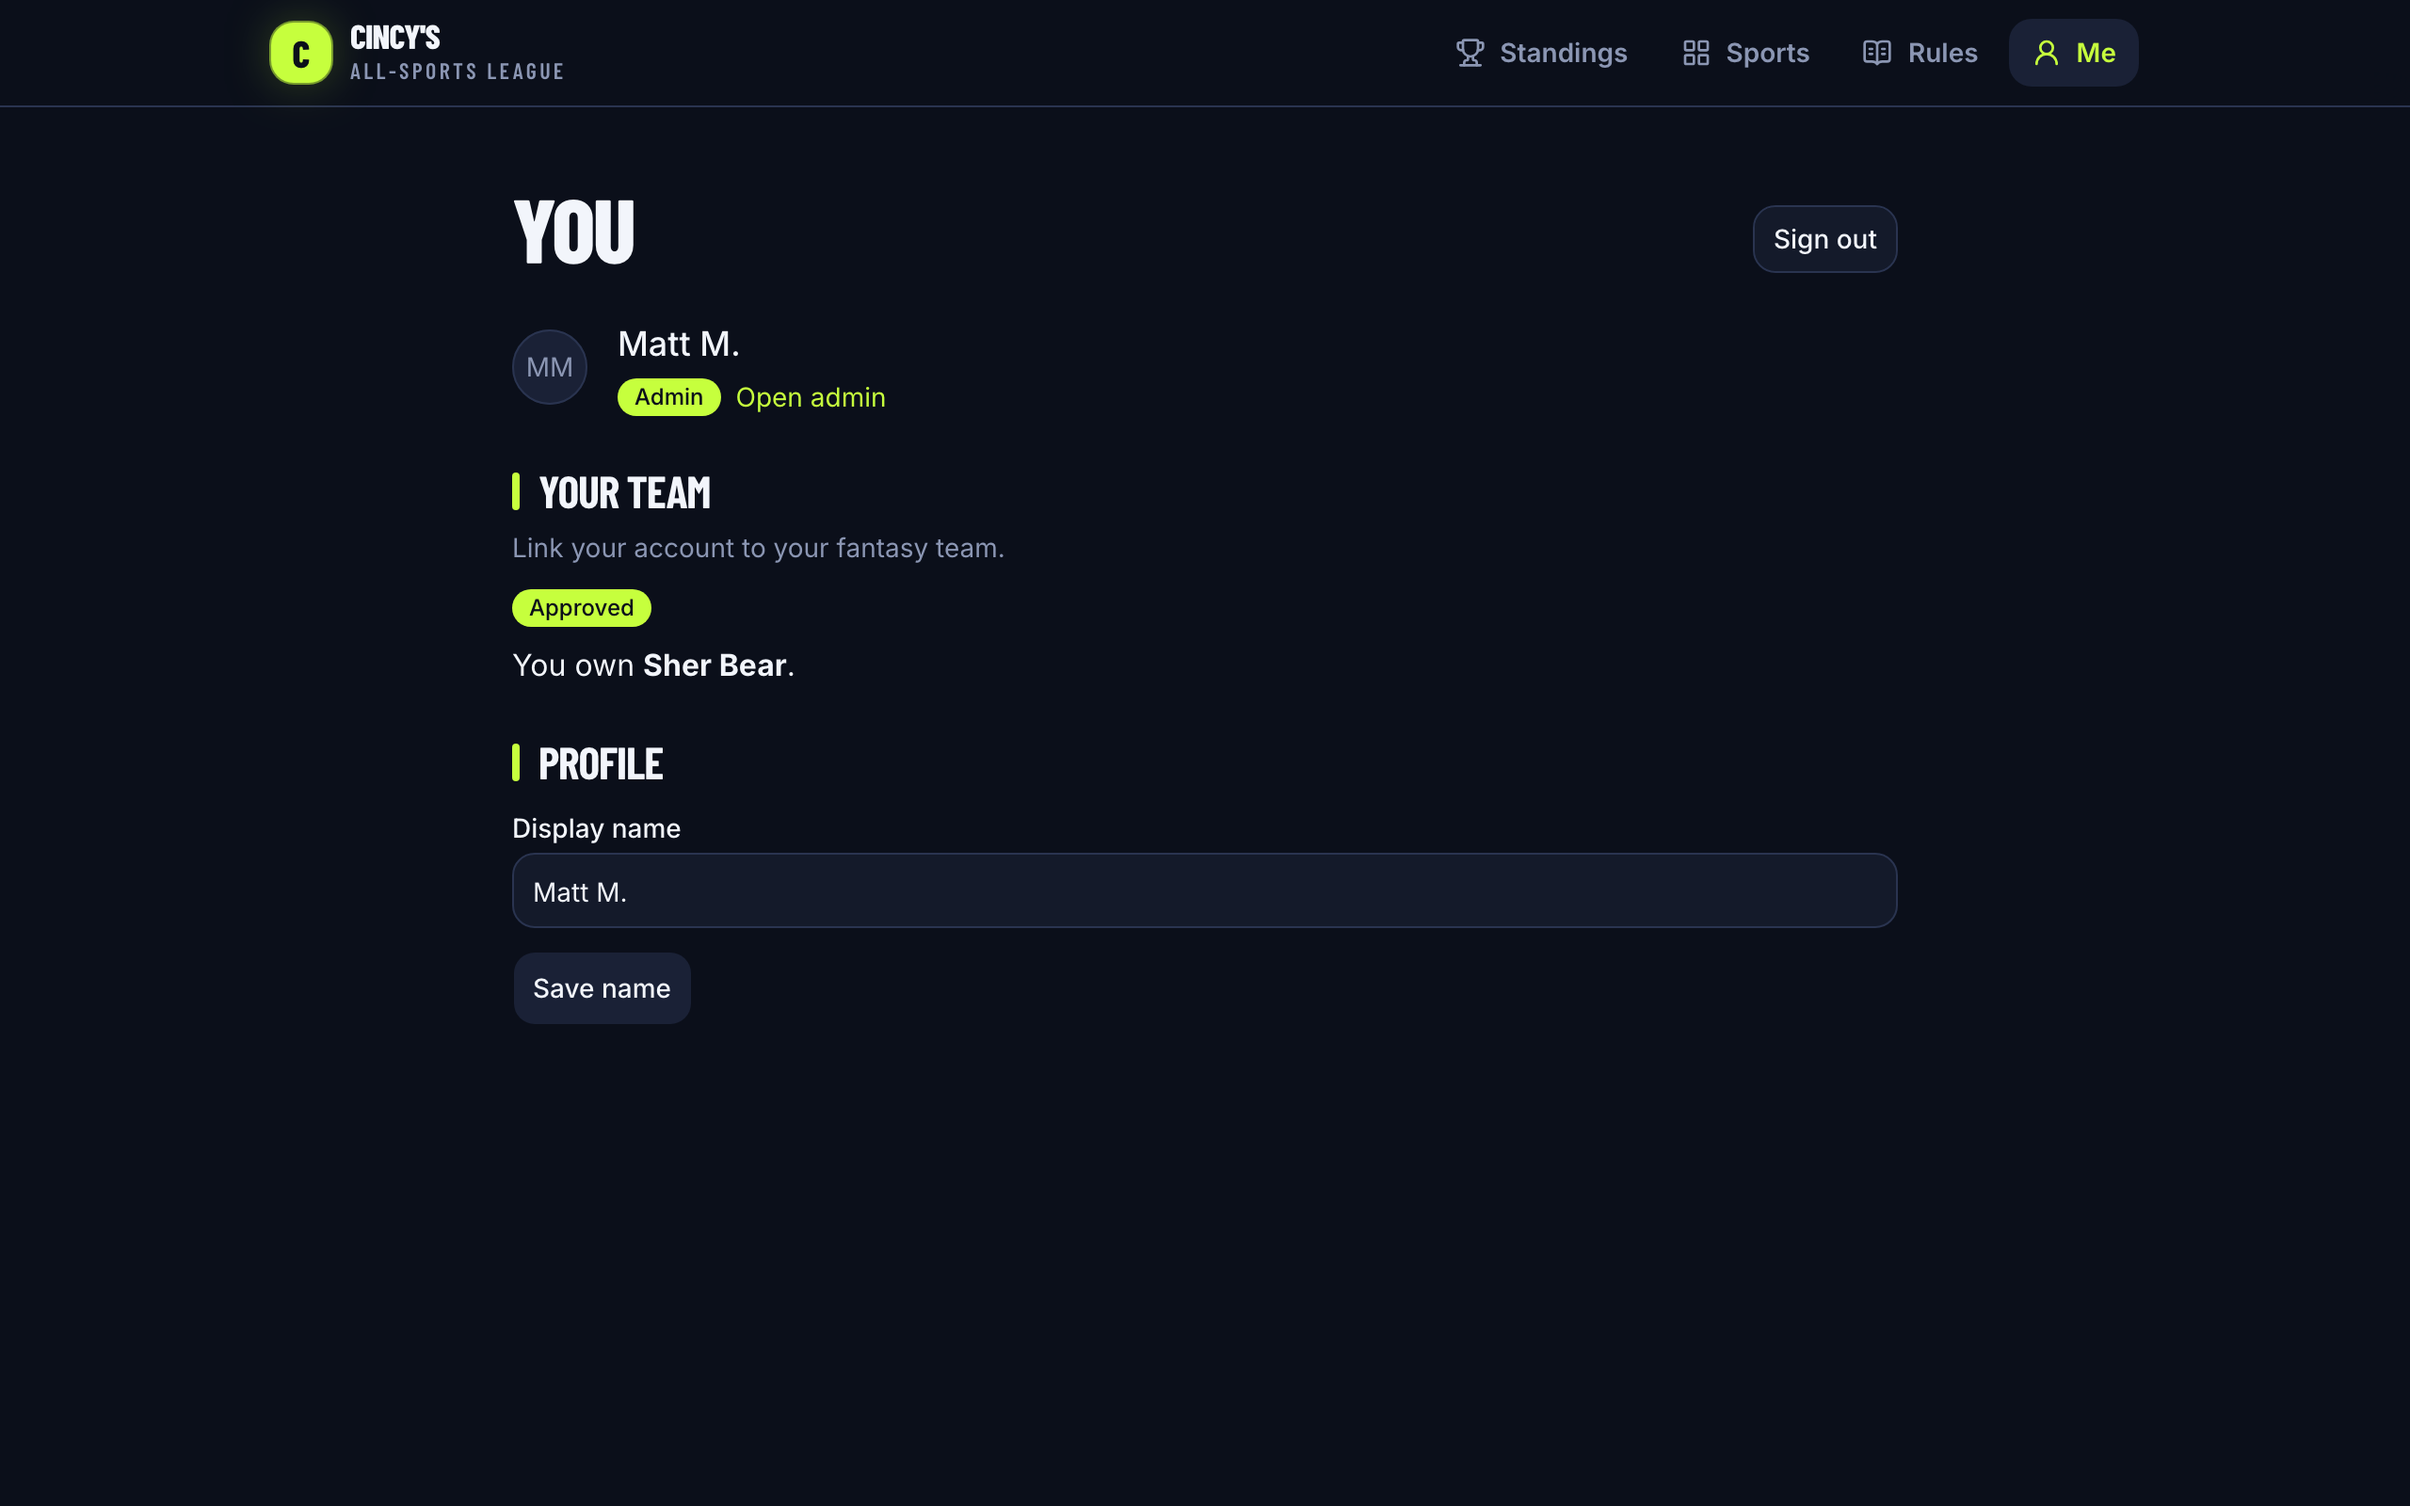
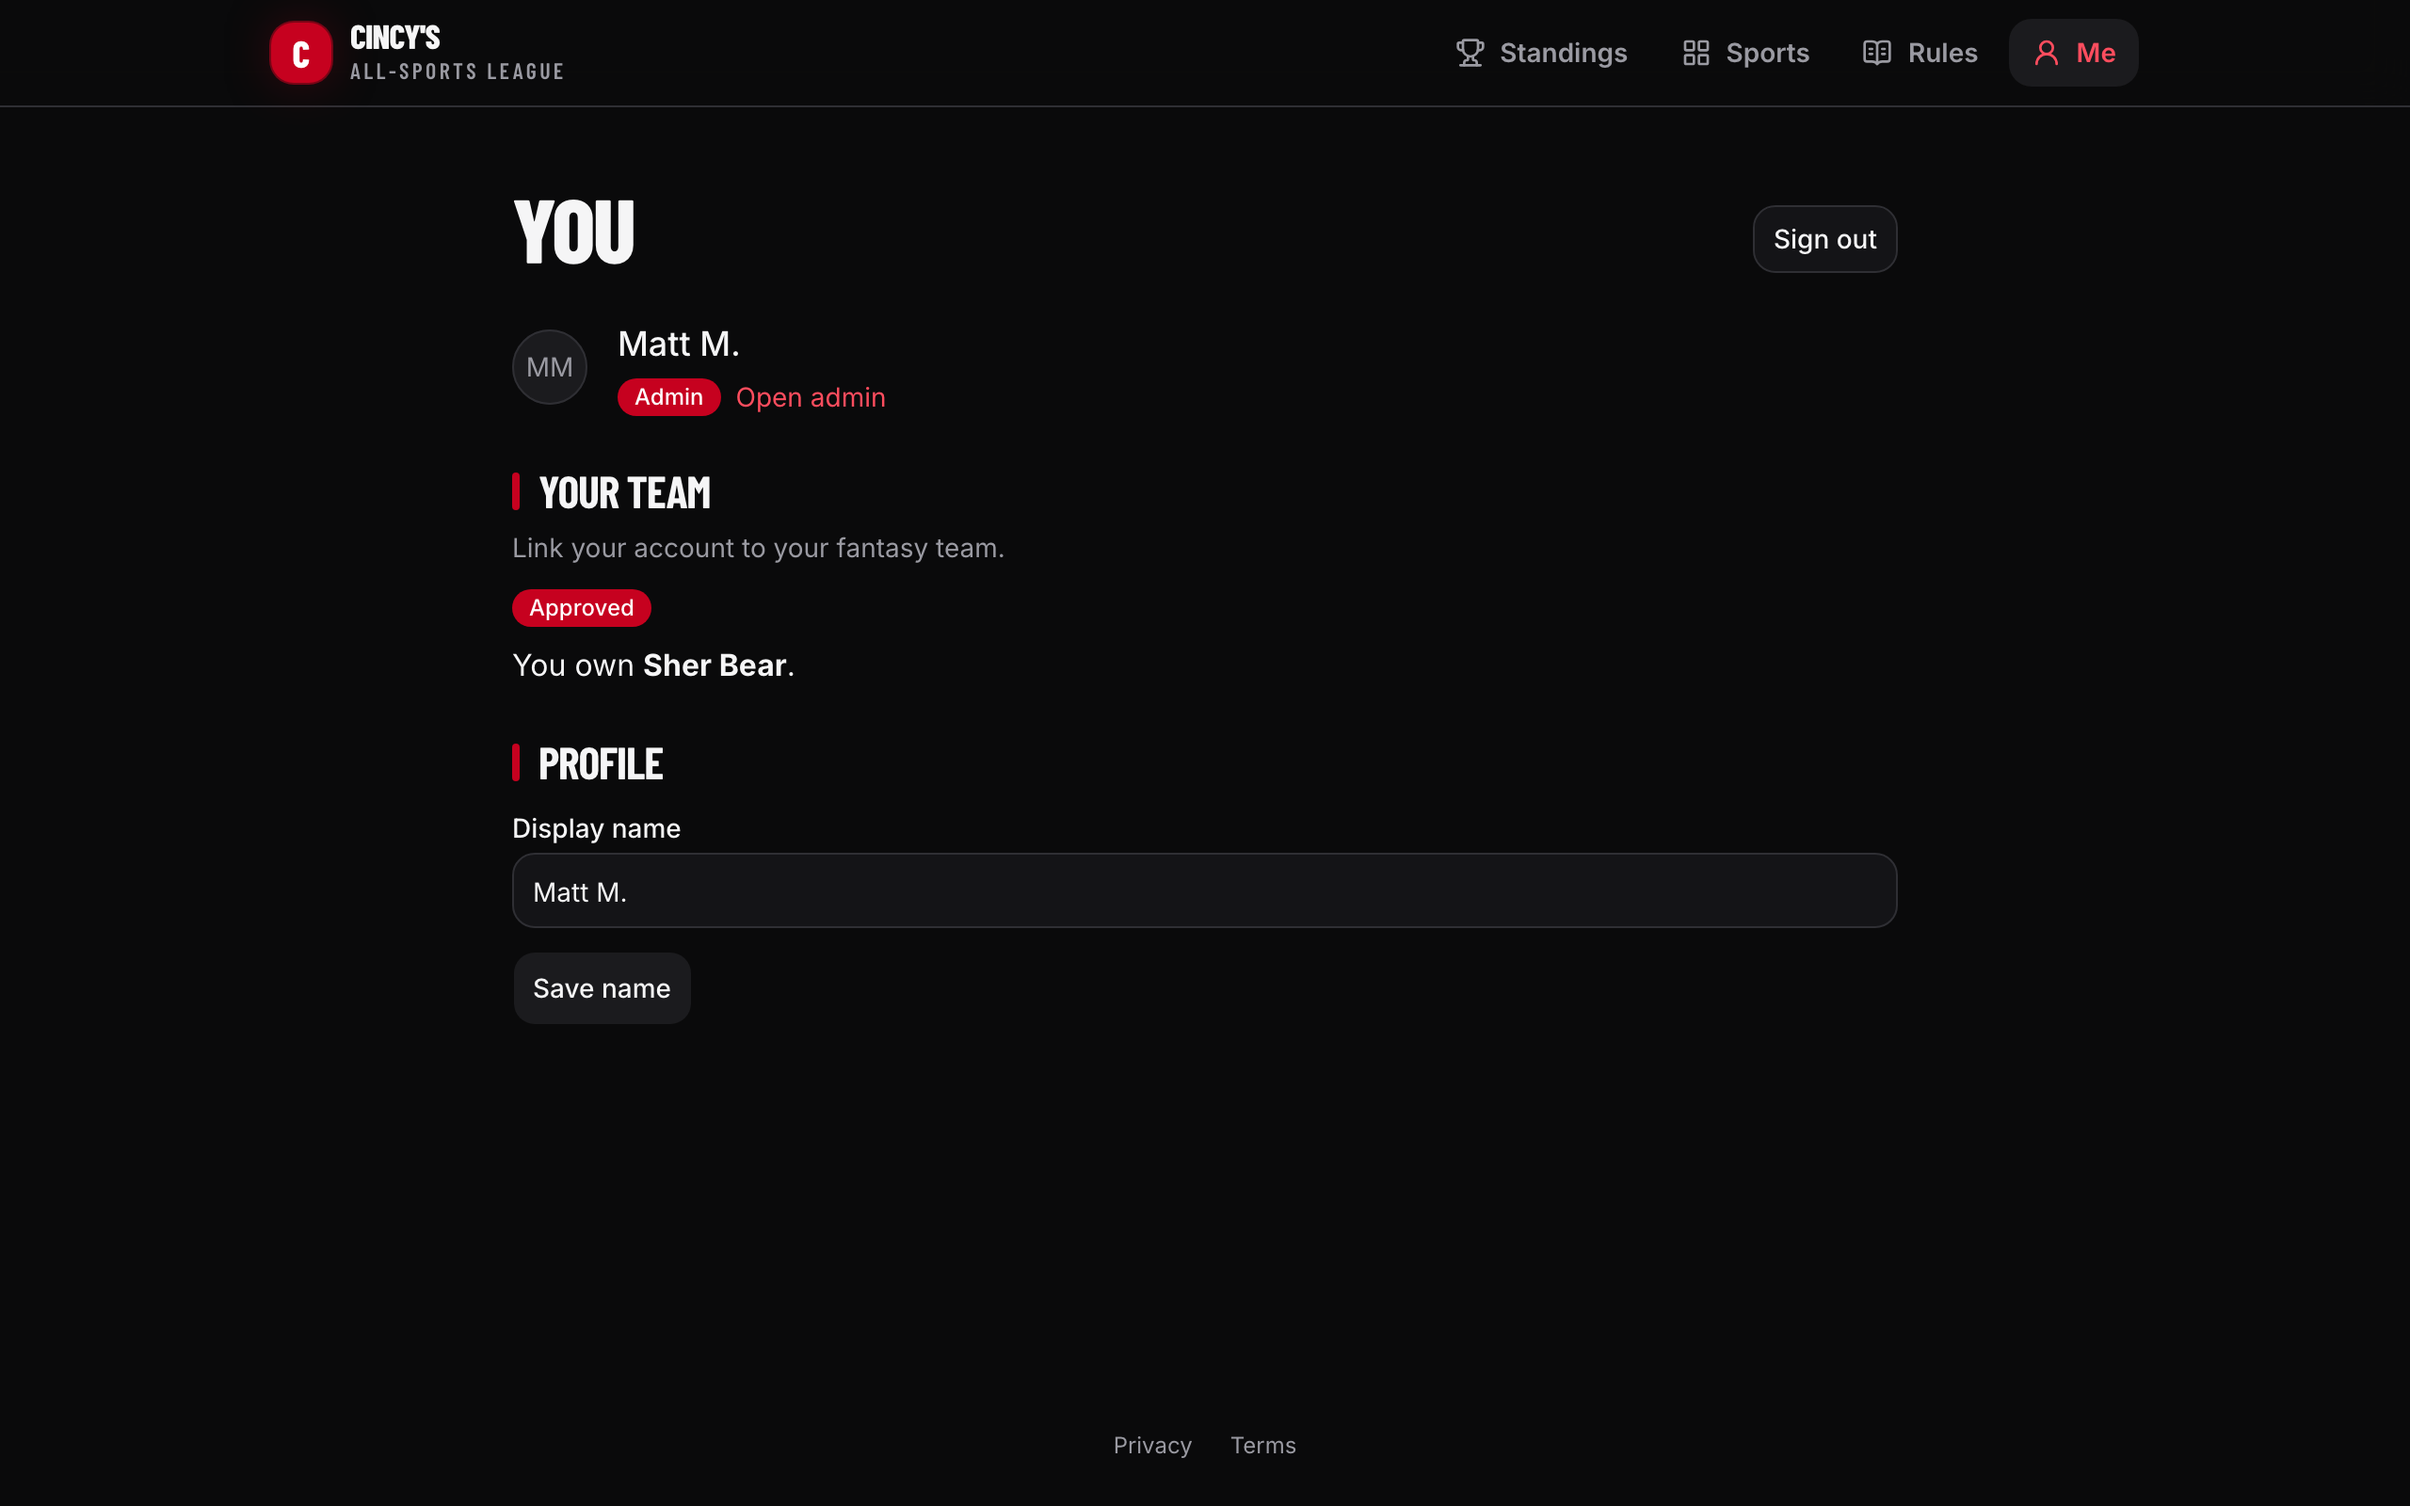
style: Cincinnati Reds color scheme
Swaps the lime-on-navy palette for Reds red on near-black at the token
level. Red text uses a lighter tint for AA contrast, rank movement no
longer uses color to mean up or down, and icons, manifest, OG image, and
README screenshots are updated to match.

Claude-Session: https://claude.ai/code/session_01AVBEkQTvSoPoTtfijh2oQb

diff --git a/src/app/globals.css b/src/app/globals.css
@@ -5,26 +5,31 @@
 /*
  * Design tokens for the dark "broadcast" theme. This file is the only place literal colors may
  * appear (enforced by ESLint for TS/TSX). Components use the semantic utilities generated below
- * (bg-surface, text-brand, text-gold, ...) and never a raw value. The app is dark-only.
+ * (bg-surface, text-brand-bright, text-gold, ...) and never a raw value. The app is dark-only.
  */
 :root {
   color-scheme: dark;
 
-  /* Surfaces, darkest to lightest */
-  --canvas: #0b0f1a;
-  --surface: #121829;
-  --surface-raised: #1a2136;
-  --surface-high: #232c45;
-  --line: #2a3450;
+  /* Surfaces, darkest to lightest: neutral charcoal steps, no color cast */
+  --canvas: #0a0a0b;
+  --surface: #131315;
+  --surface-raised: #1b1b1e;
+  --surface-high: #26262a;
+  --line: #2f2f34;
 
   /* Text */
-  --text: #f2f5fb;
-  --text-muted: #8b96b3;
+  --text: #f5f5f6;
+  --text-muted: #9a9aa2;
 
-  /* Accents: lime is the brand/primary action, heat marks movement and live state */
-  --brand: #c6ff3d;
-  --on-brand: #0b0f1a;
-  --heat: #ff6b2c;
+  /*
+   * Accents. --brand is the fill color (buttons, badges, bars, glows) and always carries white
+   * --on-brand text. It is too dark to read as text on the canvas, so red text and thin marks use
+   * the lighter --brand-bright. Red is the brand here, so movement never uses it: rank arrows are
+   * white (up) and gray (down). --danger shares the bright tint; errors are told apart by copy.
+   */
+  --brand: #c6011f;
+  --brand-bright: #ff4d5e;
+  --on-brand: #ffffff;
   --danger: #ff4d5e;
 
   /* Top-3 rank metals */
@@ -70,8 +75,8 @@
   --color-text: var(--text);
   --color-text-muted: var(--text-muted);
   --color-brand: var(--brand);
+  --color-brand-bright: var(--brand-bright);
   --color-on-brand: var(--on-brand);
-  --color-heat: var(--heat);
   --color-danger: var(--danger);
   --color-gold: var(--gold);
   --color-silver: var(--silver);
@@ -153,10 +158,10 @@
 @keyframes live {
   0%,
   100% {
-    box-shadow: 0 0 0 0 color-mix(in oklab, var(--heat) 60%, transparent);
+    box-shadow: 0 0 0 0 color-mix(in oklab, var(--brand) 60%, transparent);
   }
   50% {
-    box-shadow: 0 0 0 5px color-mix(in oklab, var(--heat) 0%, transparent);
+    box-shadow: 0 0 0 5px color-mix(in oklab, var(--brand) 0%, transparent);
   }
 }
 
@@ -184,7 +189,7 @@
       linear-gradient(to bottom, var(--surface-raised), var(--surface));
   }
 
-  /* Broadcast backdrop behind page heroes: a lime bloom and a fine grid. */
+  /* Broadcast backdrop behind page heroes: a red bloom and a fine grid. */
   .hero-backdrop {
     background-image:
       radial-gradient(

diff --git a/src/app/opengraph-image.tsx b/src/app/opengraph-image.tsx
@@ -14,8 +14,8 @@ export default function OpenGraphImage() {
         flexDirection: "column",
         justifyContent: "space-between",
         padding: 72,
-        color: "#f2f5fb",
-        background: "linear-gradient(135deg, #0b0f1a 55%, #1d2b12)",
+        color: "#f5f5f6",
+        background: "linear-gradient(135deg, #0a0a0b 55%, #2a0a10)",
       }}
     >
       <div
@@ -23,8 +23,8 @@ export default function OpenGraphImage() {
           width: 96,
           height: 96,
           borderRadius: 24,
-          background: "#c6ff3d",
-          color: "#0b0f1a",
+          background: "#c6011f",
+          color: "#ffffff",
           display: "flex",
           alignItems: "center",
           justifyContent: "center",
@@ -38,7 +38,7 @@ export default function OpenGraphImage() {
         <div style={{ fontSize: 120, fontWeight: 800, lineHeight: 1, textTransform: "uppercase" }}>
           Cincy&apos;s All-Sports League
         </div>
-        <div style={{ marginTop: 28, fontSize: 40, color: "#8b96b3" }}>
+        <div style={{ marginTop: 28, fontSize: 40, color: "#9a9aa2" }}>
           20 teams. 11 sports. One leaderboard.
         </div>
       </div>

diff --git a/src/features/sports/components/sport-tile.tsx b/src/features/sports/components/sport-tile.tsx
@@ -12,7 +12,7 @@ export function SportTile({ sport, index }: { sport: SportSummary; index: number
         href={`/sports/${sport.code}`}
         className="group flex h-full items-center gap-4 rounded-2xl border border-line bg-surface p-4 shadow-lift transition-colors outline-none hover:bg-surface-raised focus-visible:ring-3 focus-visible:ring-ring/60"
       >
-        <span className="grid size-12 shrink-0 place-items-center rounded-xl bg-surface-raised text-brand ring-1 ring-line transition-colors group-hover:bg-brand group-hover:text-on-brand">
+        <span className="grid size-12 shrink-0 place-items-center rounded-xl bg-surface-raised text-brand-bright ring-1 ring-line transition-colors group-hover:bg-brand group-hover:text-on-brand">
           <SportIcon sport={sport.code} className="size-6" />
         </span>
         <span className="flex min-w-0 flex-1 flex-col gap-1">

diff --git a/src/features/fantasy-teams/components/pick-card.tsx b/src/features/fantasy-teams/components/pick-card.tsx
@@ -60,7 +60,9 @@ export function PickCard({ pick, index }: { pick: PickView; index: number }) {
           <ul className="flex flex-col gap-1.5 pt-2 pb-1 text-sm">
             {pick.lines.map((line, i) => (
               <li key={i} className="flex items-baseline justify-between gap-3">
-                <span className={line.isAdjustment ? "text-heat" : "text-text"}>{line.text}</span>
+                <span className={line.isAdjustment ? "text-brand-bright" : "text-text"}>
+                  {line.text}
+                </span>
                 <span className="tabular font-display text-lg font-bold">
                   {line.points < 0 ? "−" : ""}
                   {formatPoints(Math.abs(line.points))}

diff --git a/src/features/rules/components/sport-rules-card.tsx b/src/features/rules/components/sport-rules-card.tsx
@@ -12,7 +12,7 @@ export function SportRulesCard({ sport }: { sport: SportRules }) {
       className="scroll-mt-20 rounded-2xl border border-line bg-surface p-4 shadow-lift md:p-5"
     >
       <header className="flex items-center gap-3">
-        <span className="grid size-10 shrink-0 place-items-center rounded-xl bg-surface-raised text-brand ring-1 ring-line">
+        <span className="grid size-10 shrink-0 place-items-center rounded-xl bg-surface-raised text-brand-bright ring-1 ring-line">
           <SportIcon sport={sport.code} className="size-5" />
         </span>
         <div className="flex flex-col gap-1">

diff --git a/src/app/icon.tsx b/src/app/icon.tsx
@@ -13,7 +13,7 @@ export default function Icon() {
         display: "flex",
         alignItems: "center",
         justifyContent: "center",
-        background: "#0b0f1a",
+        background: "#0a0a0b",
       }}
     >
       <div
@@ -21,8 +21,8 @@ export default function Icon() {
           width: 400,
           height: 400,
           borderRadius: 96,
-          background: "#c6ff3d",
-          color: "#0b0f1a",
+          background: "#c6011f",
+          color: "#ffffff",
           display: "flex",
           alignItems: "center",
           justifyContent: "center",

diff --git a/src/app/manifest.ts b/src/app/manifest.ts
@@ -9,8 +9,8 @@ export default function manifest(): MetadataRoute.Manifest {
     display: "standalone",
     orientation: "portrait",
     // The manifest is read by the OS, outside CSS, so these mirror --canvas and --brand in globals.css.
-    background_color: "#0b0f1a",
-    theme_color: "#0b0f1a",
+    background_color: "#0a0a0b",
+    theme_color: "#0a0a0b",
     icons: [
       { src: "/icon", sizes: "512x512", type: "image/png", purpose: "any" },
       { src: "/apple-icon", sizes: "180x180", type: "image/png" },

diff --git a/src/ui/nav-links.tsx b/src/ui/nav-links.tsx
@@ -36,8 +36,8 @@ export function NavLinks({ variant }: { variant: "bar" | "top" }) {
                   : "flex items-center gap-2 rounded-lg px-3 py-2 text-sm font-semibold",
                 current
                   ? variant === "bar"
-                    ? "text-brand"
-                    : "bg-surface-raised text-brand"
+                    ? "text-brand-bright"
+                    : "bg-surface-raised text-brand-bright"
                   : "text-text-muted hover:text-text",
               )}
             >

diff --git a/src/app/me/page.tsx b/src/app/me/page.tsx
@@ -38,7 +38,10 @@ export default async function MePage() {
           {isAdminRole(user.role) ? (
             <div className="flex items-center gap-2">
               <Badge>Admin</Badge>
-              <Link href="/admin" className="text-sm text-brand underline-offset-4 hover:underline">
+              <Link
+                href="/admin"
+                className="text-sm text-brand-bright underline-offset-4 hover:underline"
+              >
                 Open admin
               </Link>
             </div>

diff --git a/src/features/standings/components/sport-contribution-bars.tsx b/src/features/standings/components/sport-contribution-bars.tsx
@@ -26,7 +26,9 @@ export function SportContributionBars({
       {sportPoints.map(({ sport, points }) => (
         <span
           key={sport}
-          className={points > 0 ? "w-1.5 rounded-xs bg-brand" : "h-0.5 w-1.5 rounded-full bg-line"}
+          className={
+            points > 0 ? "w-1.5 rounded-xs bg-brand-bright" : "h-0.5 w-1.5 rounded-full bg-line"
+          }
           style={
             points > 0 && max > 0 ? { height: `${Math.max(18, (points / max) * 100)}%` } : undefined
           }

diff --git a/src/app/terms/page.tsx b/src/app/terms/page.tsx
@@ -36,7 +36,7 @@ export default function TermsPage() {
         <p>
           Admins can remove accounts or team claims, for example if someone breaks these terms. You
           can ask an admin to delete your account at any time. See the{" "}
-          <a href="/privacy" className="text-brand underline-offset-4 hover:underline">
+          <a href="/privacy" className="text-brand-bright underline-offset-4 hover:underline">
             Privacy Policy
           </a>{" "}
           for details.

diff --git a/src/ui/movement-indicator.tsx b/src/ui/movement-indicator.tsx
@@ -14,7 +14,7 @@ export function MovementIndicator({
     "font-display inline-flex items-center gap-0.5 text-sm leading-none font-bold tabular";
   const up = movement.direction === "up";
   return (
-    <span className={cn(base, up ? "text-brand" : "text-heat", className)}>
+    <span className={cn(base, up ? "text-text" : "text-text-muted", className)}>
       <span aria-hidden="true">
         {up ? "▲" : "▼"}
         {movement.places}
